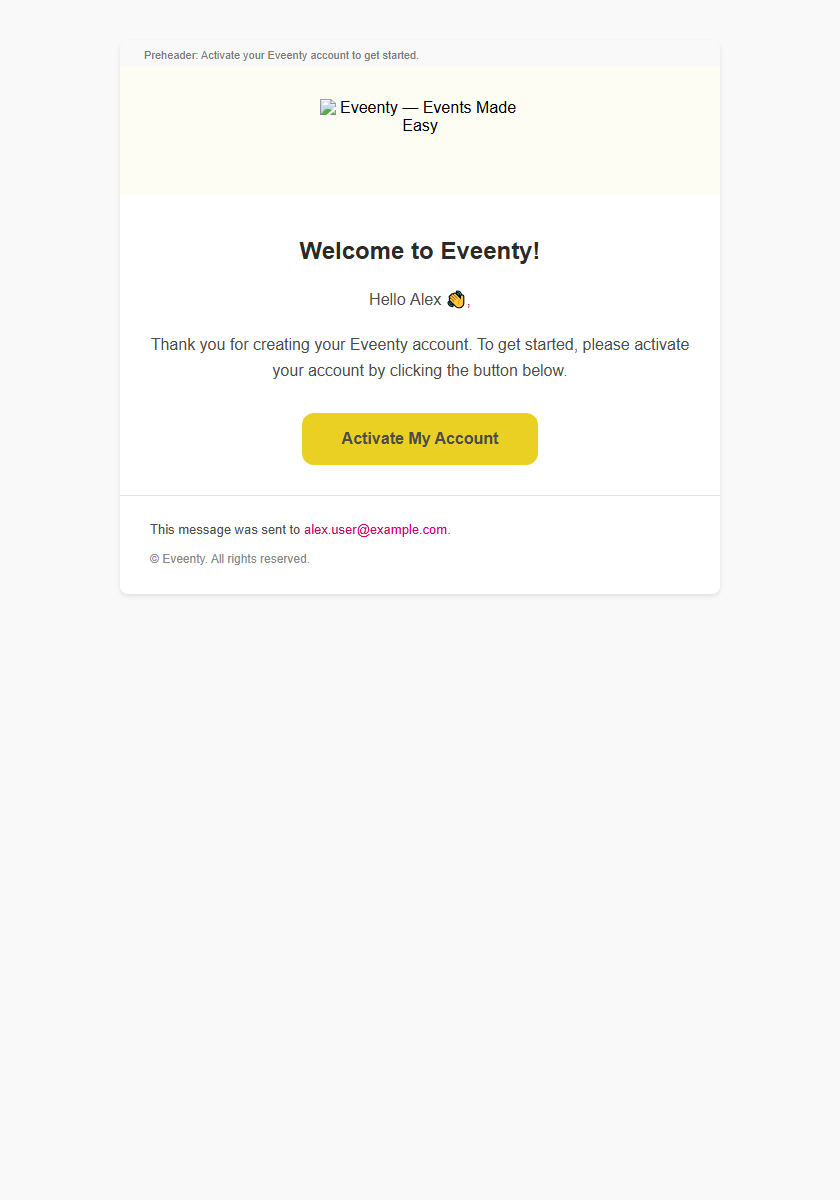
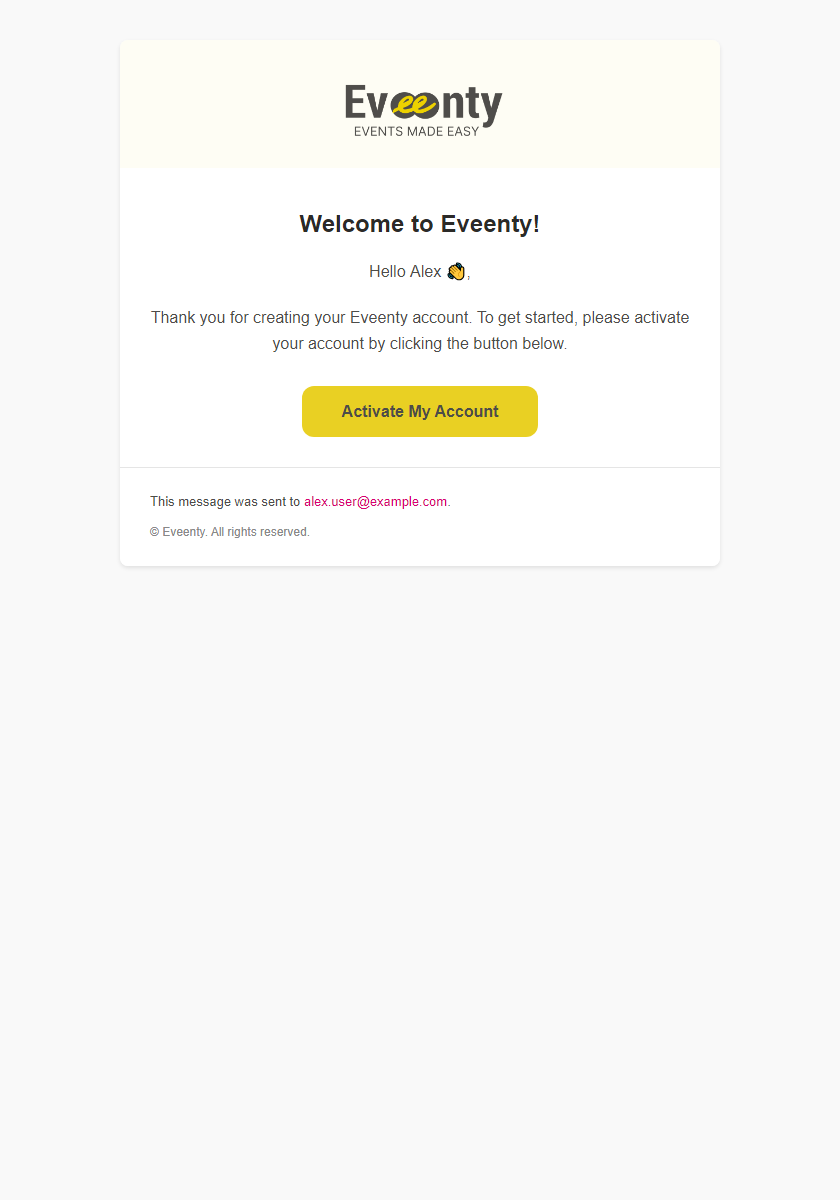
Add preview annotation for account activation email
- Introduced a hidden preview annotation in the email preview interface to display the inbox preheader for the account activation email.
- Updated CSS for the new annotation styling.
- Modified JavaScript to manage the visibility and content of the annotation based on the email definition.
- Adjusted email rendering functions to support new font families as per design specifications.
- Updated documentation to reflect changes in email rendering and visual testing notes.

This commit enhances the email preview functionality, ensuring better alignment with design intent and providing necessary context for the account activation email.

Changed region(s): [[0.1857, 0.185, 0.8048, 0.4933], [0.1857, 0.0308, 0.619, 0.1233]]

diff --git a/emails/activate_email.html b/emails/activate_email.html
@@ -24,19 +24,13 @@
     }
   </style>
 </head>
-<body style="margin:0;padding:0;background-color:#f9f9f9;font-family:Arial, Helvetica, 'Roboto', Tahoma, sans-serif;">
+<body style="margin:0;padding:0;background-color:#f9f9f9;font-family:'Roboto', Arial, Helvetica, Tahoma, sans-serif;">
   <div style="display:none;font-size:1px;line-height:1px;max-height:0;max-width:0;opacity:0;overflow:hidden;mso-hide:all;">Activate your Eveenty account to get started.</div>
   <table role="presentation" width="100%" cellpadding="0" cellspacing="0" border="0" style="background-color:#f9f9f9;margin:0;padding:0;">
     <tr>
       <td align="center" style="padding:40px 16px;">
         <table role="presentation" class="email-container" width="600" cellpadding="0" cellspacing="0" border="0" style="width:100%;max-width:600px;background-color:#ffffff;border-radius:8px;overflow:hidden;box-shadow:0 2px 4px rgba(0,0,0,0.1);">
           
-    
-    <tr>
-      <td align="left" style="background-color:#f9f9f9;padding:8px 24px 4px 24px;font-family:Arial, Helvetica, 'Roboto', Tahoma, sans-serif;font-size:11px;line-height:1.4;color:#7b7b79;">
-        Preheader: Activate your Eveenty account to get started.
-      </td>
-    </tr>
     
     <tr>
       <td align="center" style="background-color:#fefdf4;padding:32px 24px 16px 24px;">
@@ -46,9 +40,9 @@
     </tr>
     <tr>
       <td align="center" class="stack-pad" style="padding:40px 30px 30px 30px;background-color:#ffffff;">
-        <h1 style="margin:0 0 20px 0;font-family:Arial, Helvetica, 'Roboto', Tahoma, sans-serif;font-size:24px;font-weight:700;line-height:1.3;color:#2b2a28;text-align:center;">Welcome to Eveenty!</h1>
-        <p style="margin:0 0 20px 0;font-family:Arial, Helvetica, 'Roboto', Tahoma, sans-serif;font-size:16px;line-height:1.6;color:#4d4c49;text-align:center;">Hello <bdi>Alex</bdi> 👋,</p>
-        <p style="margin:0;font-family:Arial, Helvetica, 'Roboto', Tahoma, sans-serif;font-size:16px;line-height:1.6;color:#4d4c49;text-align:center;">Thank you for creating your Eveenty account. To get started, please activate your account by clicking the button below.</p>
+        <h1 style="margin:0 0 20px 0;font-family:'Plus Jakarta Sans', Arial, Helvetica, sans-serif;font-size:24px;font-weight:700;line-height:1.3;color:#2b2a28;text-align:center;">Welcome to Eveenty!</h1>
+        <p style="margin:0 0 20px 0;font-family:'Roboto', Arial, Helvetica, Tahoma, sans-serif;font-size:16px;line-height:1.6;color:#4d4c49;text-align:center;">Hello <bdi>Alex</bdi> 👋,</p>
+        <p style="margin:0;font-family:'Roboto', Arial, Helvetica, Tahoma, sans-serif;font-size:16px;line-height:1.6;color:#4d4c49;text-align:center;">Thank you for creating your Eveenty account. To get started, please activate your account by clicking the button below.</p>
       </td>
     </tr>
     <tr>
@@ -56,8 +50,8 @@
         
     <table role="presentation" cellpadding="0" cellspacing="0" border="0">
       <tr>
-        <td align="center" bgcolor="#e9d023" style="background-color:#e9d023;border-radius:12px;min-height:48px;">
-          <a href="https://example.com/preview/activate" target="_blank" style="display:inline-block;padding:16px 40px;font-family:Arial, Helvetica, 'Roboto', Tahoma, sans-serif;font-size:16px;font-weight:700;color:#4d4c49;text-decoration:none;border-radius:12px;min-width:44px;line-height:1.2;">Activate My Account</a>
+        <td align="center" bgcolor="#e9d023" style="background-color:#e9d023;border-radius:12px;">
+          <a href="https://example.com/preview/activate" target="_blank" style="display:inline-block;padding:16px 40px;font-family:'Roboto', Arial, Helvetica, Tahoma, sans-serif;font-size:16px;font-weight:700;color:#4d4c49;text-decoration:none;border-radius:12px;min-width:44px;line-height:1.2;">Activate My Account</a>
         </td>
       </tr>
     </table>
@@ -65,7 +59,7 @@
     </tr>
     
     <tr>
-      <td align="left" style="background-color:#ffffff;padding:24px 30px;border-top:1px solid #e5e5e5;font-family:Arial, Helvetica, 'Roboto', Tahoma, sans-serif;">
+      <td align="left" style="background-color:#ffffff;padding:24px 30px;border-top:1px solid #e5e5e5;font-family:'Roboto', Arial, Helvetica, Tahoma, sans-serif;">
         <p style="margin:0 0 10px 0;color:#4d4c49;font-size:13px;line-height:1.6;">
           This message was sent to <a href="mailto:alex.user@example.com" dir="ltr" style="color:#d80073;text-decoration:none;unicode-bidi:embed;">alex.user@example.com</a>.
         </p>

diff --git a/shared/email-kit.js b/shared/email-kit.js
@@ -48,11 +48,11 @@ export function brandedHeader({ locale = 'en', dir = 'ltr' } = {}) {
     </tr>`;
 }
 
-export function brandedFooter({ email, copyright, dir = 'ltr' } = {}) {
+export function brandedFooter({ email, copyright, dir = 'ltr', fontFamily = T.fontStack } = {}) {
   const align = dir === 'rtl' ? 'right' : 'left';
   return `
     <tr>
-      <td align="${align}" style="background-color:${T.surface};padding:24px 30px;border-top:1px solid #e5e5e5;font-family:${T.fontStack};">
+      <td align="${align}" style="background-color:${T.surface};padding:24px 30px;border-top:1px solid #e5e5e5;font-family:${fontFamily};">
         <p style="margin:0 0 10px 0;color:${T.dark500};font-size:13px;line-height:1.6;">
           This message was sent to <a href="mailto:${esc(email)}" dir="ltr" style="color:${T.secondary};text-decoration:none;unicode-bidi:embed;">${esc(email)}</a>.
         </p>
@@ -92,12 +92,19 @@ export function totalsBox({ subtotal, tax, processingFee, grandTotal, dir = 'ltr
     </table>`;
 }
 
-export function primaryCtaYellow({ href, label }) {
+/**
+ * Yellow primary CTA (Account Activation / TRANSACTIONAL).
+ * Target ~48–51px height via anchor padding (16+16) + 16px/1.2 line — do not
+ * rely on td min-height (Outlook often ignores it). Full VML/bulletproof Outlook
+ * button suite remains DEFERRED — no production engineering in Task 02.
+ * Client rendering tests: NOT EXECUTED.
+ */
+export function primaryCtaYellow({ href, label, fontFamily = T.fontStack }) {
   return `
     <table role="presentation" cellpadding="0" cellspacing="0" border="0">
       <tr>
-        <td align="center" bgcolor="${T.primary}" style="background-color:${T.primary};border-radius:12px;min-height:48px;">
-          <a href="${esc(href)}" target="_blank" style="display:inline-block;padding:16px 40px;font-family:${T.fontStack};font-size:16px;font-weight:700;color:${T.body};text-decoration:none;border-radius:12px;min-width:44px;line-height:1.2;">${esc(label)}</a>
+        <td align="center" bgcolor="${T.primary}" style="background-color:${T.primary};border-radius:12px;">
+          <a href="${esc(href)}" target="_blank" style="display:inline-block;padding:16px 40px;font-family:${fontFamily};font-size:16px;font-weight:700;color:${T.body};text-decoration:none;border-radius:12px;min-width:44px;line-height:1.2;">${esc(label)}</a>
         </td>
       </tr>
     </table>`;
@@ -128,7 +135,7 @@ export function kvRow(label, value, dir = 'ltr') {
     </tr>`;
 }
 
-export function wrapEmailDocument({ lang, dir, title, bodyRows, preheader }) {
+export function wrapEmailDocument({ lang, dir, title, bodyRows, preheader, fontFamily = T.fontStack }) {
   return `<!DOCTYPE html>
 <html lang="${esc(lang)}" dir="${esc(dir)}">
 <head>
@@ -155,7 +162,7 @@ export function wrapEmailDocument({ lang, dir, title, bodyRows, preheader }) {
     }
   </style>
 </head>
-<body style="margin:0;padding:0;background-color:${T.viewport};font-family:${T.fontStack};${dir === 'rtl' ? 'direction:rtl;' : ''}">
+<body style="margin:0;padding:0;background-color:${T.viewport};font-family:${fontFamily};${dir === 'rtl' ? 'direction:rtl;' : ''}">
   ${hiddenPreheader(preheader)}
   <table role="presentation" width="100%" cellpadding="0" cellspacing="0" border="0" style="background-color:${T.viewport};margin:0;padding:0;">
     <tr>

diff --git a/shared/render-emails.js b/shared/render-emails.js
@@ -50,22 +50,23 @@ function renderActivate(L, dir, lang, longContent) {
   const body = longContent
     ? `${a.body} ${'Additional onboarding guidance for preview wrapping. '.repeat(6)}`
     : a.body;
+  const bodyFont = dir === 'rtl' ? T.fontBodyRtl : T.fontBody;
+  const headingFont = dir === 'rtl' ? T.fontBodyRtl : T.fontHeading;
   const rows = `
-    ${visiblePreheaderBar(`Preheader: ${SAMPLE.activate.preheader}`, dir)}
     ${brandedHeader({ locale: L.logo, dir })}
     <tr>
       <td align="center" class="stack-pad" style="padding:40px 30px 30px 30px;background-color:${T.surface};">
-        <h1 style="margin:0 0 20px 0;font-family:${T.fontStack};font-size:24px;font-weight:700;line-height:1.3;color:${T.heading};text-align:center;">${esc(a.welcome)}</h1>
-        <p style="margin:0 0 20px 0;font-family:${T.fontStack};font-size:16px;line-height:1.6;color:${T.body};text-align:center;">${esc(a.greeting)} <bdi>${esc(name)}</bdi> 👋,</p>
-        <p style="margin:0;font-family:${T.fontStack};font-size:16px;line-height:1.6;color:${T.body};text-align:center;">${esc(body)}</p>
+        <h1 style="margin:0 0 20px 0;font-family:${headingFont};font-size:24px;font-weight:700;line-height:1.3;color:${T.heading};text-align:center;">${esc(a.welcome)}</h1>
+        <p style="margin:0 0 20px 0;font-family:${bodyFont};font-size:16px;line-height:1.6;color:${T.body};text-align:center;">${esc(a.greeting)} <bdi>${esc(name)}</bdi> 👋,</p>
+        <p style="margin:0;font-family:${bodyFont};font-size:16px;line-height:1.6;color:${T.body};text-align:center;">${esc(body)}</p>
       </td>
     </tr>
     <tr>
       <td align="center" style="padding:0 30px 30px 30px;background-color:${T.surface};">
-        ${primaryCtaYellow({ href: SAMPLE.activate.activateUrl, label: a.button })}
+        ${primaryCtaYellow({ href: SAMPLE.activate.activateUrl, label: a.button, fontFamily: bodyFont })}
       </td>
     </tr>
-    ${brandedFooter({ email: SAMPLE.user.email, copyright: a.copyright, dir })}
+    ${brandedFooter({ email: SAMPLE.user.email, copyright: a.copyright, dir, fontFamily: bodyFont })}
   `;
   return wrapEmailDocument({
     lang,
@@ -73,6 +74,7 @@ function renderActivate(L, dir, lang, longContent) {
     title: a.title,
     preheader: SAMPLE.activate.preheader,
     bodyRows: rows,
+    fontFamily: bodyFont,
   });
 }
 

diff --git a/preview.js b/preview.js
@@ -1,4 +1,4 @@
-import { EMAIL_IDS } from './shared/sample-data.js';
+import { EMAIL_IDS, SAMPLE } from './shared/sample-data.js';
 import { renderEmail } from './shared/render-emails.js';
 
 const els = {
@@ -11,6 +11,7 @@ const els = {
   frame: document.getElementById('previewFrame'),
   wrap: document.getElementById('frameWrap'),
   label: document.getElementById('viewportLabel'),
+  annotation: document.getElementById('previewAnnotation'),
   meta: document.getElementById('metaPanel'),
   sourcePanel: document.getElementById('sourcePanel'),
   sourcePre: document.getElementById('sourcePre'),
@@ -68,6 +69,19 @@ function applyBlockedImages(html) {
   });
 }
 
+function updatePreviewAnnotation(def) {
+  if (!els.annotation) return;
+  // Account Activation only — other templates unchanged until their review pass.
+  if (def.id === 'activate_email') {
+    els.annotation.hidden = false;
+    els.annotation.innerHTML =
+      `<strong>PREVIEW ANNOTATION</strong> — Hidden inbox preheader (not in email body): ${SAMPLE.activate.preheader}`;
+  } else {
+    els.annotation.hidden = true;
+    els.annotation.textContent = '';
+  }
+}
+
 function render() {
   const def = currentDef();
   const locale = els.locale.value;
@@ -83,6 +97,7 @@ function render() {
   els.frame.srcdoc = html;
   els.sourcePre.textContent = html;
   updateMeta();
+  updatePreviewAnnotation(def);
 }
 
 function setViewport() {

diff --git a/shared/tokens.js b/shared/tokens.js
@@ -24,6 +24,21 @@ export const TOKENS = {
   errorFg: '#991b1b',
   /** Email container: Figma frame is 800px design canvas; content uses Fluid Hybrid 600 */
   containerMax: 600,
+  /**
+   * Legacy shared stack (other Phase-1 templates). Arial-first intentionally unchanged
+   * outside Account Activation until those references are reviewed.
+   */
   fontStack: "Arial, Helvetica, 'Roboto', Tahoma, sans-serif",
+  /**
+   * Account Activation (Figma-approved intent):
+   * - Headings: Plus Jakarta Sans
+   * - Body / CTA: Roboto
+   * Realistic email-client fallbacks follow. Web-font loading is NOT claimed —
+   * clients without the family fall through; formal client QA NOT EXECUTED.
+   */
+  fontHeading: "'Plus Jakarta Sans', Arial, Helvetica, sans-serif",
+  fontBody: "'Roboto', Arial, Helvetica, Tahoma, sans-serif",
+  /** AR/FA Activation preview: approved local-script fallbacks (Tahoma first). */
+  fontBodyRtl: 'Tahoma, Arial, Helvetica, sans-serif',
   fontMono: "Consolas, 'Courier New', Courier, monospace",
 };

diff --git a/preview.css b/preview.css
@@ -137,6 +137,25 @@ body {
   color: var(--muted);
 }
 
+.preview-annotation {
+  width: 100%;
+  max-width: 800px;
+  box-sizing: border-box;
+  margin: 0;
+  padding: 10px 12px;
+  border: 1px dashed #7b7b79;
+  border-radius: 6px;
+  background: #1e1e1e;
+  color: #cfcfc8;
+  font-size: 12px;
+  line-height: 1.45;
+}
+
+.preview-annotation strong {
+  color: var(--accent);
+  font-weight: 700;
+}
+
 .frame-wrap {
   max-width: 100%;
   background: #f9f9f9;

diff --git a/index.html b/index.html
@@ -58,6 +58,7 @@
   <main class="stage">
     <div class="viewport-chrome">
       <span id="viewportLabel">600px</span>
+      <aside id="previewAnnotation" class="preview-annotation" hidden></aside>
       <div id="frameWrap" class="frame-wrap" style="width:600px">
         <iframe id="previewFrame" title="Email preview" sandbox="allow-same-origin"></iframe>
       </div>

diff --git a/docs/VISUAL_DEVIATION_LOG.md b/docs/VISUAL_DEVIATION_LOG.md
@@ -5,8 +5,9 @@ Status: **DRAFT** implementations for owner review. Not APPROVED. Browser-only c
 | ID | Area | Figma | HTML preview | Severity | Rationale |
 |----|------|-------|--------------|----------|-----------|
 | D01 | Canvas width | 800px frame | 600px max container in 800px viewport chrome | Intentional | Spec: Fluid Hybrid 600; frame includes side gutters |
-| D02 | Fonts | Plus Jakarta Sans / Roboto / Inter | Arial, Helvetica, Roboto, Tahoma stack | Intentional | Email-safe; no critical layout dependency on webfonts |
-| D03 | Activate CTA | Yellow `#e9d023` / dark text | Matches Figma | — | Differs from current prod magenta |
+| D02 | Fonts (Activation) | Plus Jakarta Sans headings / Roboto body | Approved family first + email fallbacks; AR/FA Tahoma-first | Intentional | Web-font compatibility not claimed; client tests NOT EXECUTED |
+| D02b | Fonts (other refs) | Same kit intent | Legacy Arial-first shared stack | Deferred | Unchanged until Commerce/Notification review |
+| D03 | Activate CTA | Yellow `#e9d023` / dark text; ~48–51px via padding | Matches; no `td` min-height dependence | — | Differs from current prod magenta; Outlook VML deferred |
 | D04 | Activate emoji | Wave in greeting | Kept | — | Matches Figma + prod |
 | D05 | Donation KV layout | Single stacked justify-between rows | Table KV rows | Low | Email-safe equivalent; avoids CSS flex |
 | D06 | Totals box | Yellow + cream grand-total band | Table recreation | Low | Approximate radius/padding; Outlook will flatten some radius |
@@ -16,11 +17,12 @@ Status: **DRAFT** implementations for owner review. Not APPROVED. Browser-only c
 | D10 | Reg approval alert greens | `#f0fdf4` / `#c5dfcf` / `#629a77` | Same tokens | — | Differs from older prod `#d4edda` / `#28a745` |
 | D11 | Support heading | No emoji | No emoji | — | Prod template still has ⛔ |
 | D12 | Support footer | Minimal ops copy | Matches Figma | — | Prod has large trailing logo |
-| D13 | Figma annotation blocks | Present under designs | Omitted from email HTML | Intentional | Not customer-facing |
+| D13 | Figma annotation blocks | Present under designs (incl. Activation preheader metadata outside canvas) | Omitted from email HTML; Activation preheader in preview chrome only | Intentional | Not customer-facing |
 | D14 | Box shadow on cards | Subtle | Included; stripped by many clients | Low | Progressive enhancement |
-| D15 | Logo asset | Figma MCP PNG export | Local PNG (+ CDN copies for AR/FA) | Low | Transparent PNG; tagline baked into asset |
+| D15 | Logo asset | Figma MCP PNG export | Local `../assets/logos/...` preview paths only | Low | Production image hosting DEFERRED — no invented URLs |
+| D18 | Visible preheader row | Removed from Activation email canvas (Task 02) | Removed from Activation HTML; hidden preheader retained | — | Inbox preview only |
 | D16 | Ticket-sale specialized modules (rooms/addons) | Not on ref frame | Not rendered | Intentional | Follow Figma reference; note gap in parity doc |
-| D17 | RTL logos | Localized wordmarks | `logo_transparent_{ar,fa}.png` from CDN | Low | EN uses Figma export PNG |
+| D17 | RTL logos | Localized wordmarks | Local `eveenty-logo-{ar,fa}.png` in preview | Low | Production hosting DEFERRED |
 
 ## Unresolved visual questions for owner
 

diff --git a/screenshots/README.md b/screenshots/README.md
@@ -1,10 +1,33 @@
 # Email preview screenshots
 
-PNG captures of the five reference emails at desktop (800) and mobile (375) widths.
+PNG captures for owner visual review. Browser / Playwright renders only — **email-client rendering tests NOT EXECUTED**.
 
-## Regenerate
+## Account Activation (Task 02 — awaiting owner approval)
 
-From `email-preview/`:
+| File | What |
+|------|------|
+| `activate_email-desktop-800.png` | HTML EN desktop ~800 |
+| `activate_email-mobile-375.png` | HTML EN mobile 375 |
+| `activate_email-mobile-320.png` | HTML EN mobile 320 |
+| `activate_email-ar-rtl-800.png` | HTML AR RTL ~800 |
+| `preview-app-activate-ar-800.png` | Preview chrome showing outside-canvas preheader annotation |
+| `figma/activate-en-desktop-800.png` | Figma EN 800 (node `4:2`) |
+| `figma/activate-en-mobile-320.png` | Figma EN 320 |
+| `figma/activate-en-mobile-375.png` | Figma EN 375 |
+| `figma/activate-ar-rtl-800.png` | Figma AR RTL 800 |
+
+Figma file: https://www.figma.com/design/yz7YggnG4H2RuUd23f9zPk/Eveenty-Email-Design-Kit?node-id=4-2
+
+## Other Phase-1 references (unchanged this task)
+
+| File | Email |
+|------|--------|
+| `festival_donation-desktop-800.png` / `festival_donation-mobile-375.png` | Festival donation |
+| `festival_ticket_sale-desktop-800.png` / `festival_ticket_sale-mobile-375.png` | Ticket sale |
+| `festival_ticket_registration_approval-desktop-800.png` / `festival_ticket_registration_approval-mobile-375.png` | Ticket registration approval |
+| `support-desktop-800.png` / `support-mobile-375.png` | Support |
+
+## Regenerate HTML captures
 
 ```bash
 npm install
@@ -12,16 +35,5 @@ npx playwright install chromium
 node capture-screenshots.mjs
 ```
 
-Requires `"type": "module"` in `package.json` (ESM imports in `capture-screenshots.mjs`).
+Requires `"type": "module"` in `package.json`.
 
-Output files:
-
-| File | Email |
-|------|--------|
-| `activate_email-desktop-800.png` / `activate_email-mobile-375.png` | Account activation |
-| `festival_donation-desktop-800.png` / `festival_donation-mobile-375.png` | Festival donation |
-| `festival_ticket_sale-desktop-800.png` / `festival_ticket_sale-mobile-375.png` | Ticket sale |
-| `festival_ticket_registration_approval-desktop-800.png` / `festival_ticket_registration_approval-mobile-375.png` | Ticket registration approval |
-| `support-desktop-800.png` / `support-mobile-375.png` | Support |
-
-Optional: copy any matching files from `%LOCALAPPDATA%\Temp\cursor\screenshots\` (names containing `activate`, `donation`, `ticket`, or `support`) into this folder if you captured them via the Cursor browser tools.

diff --git a/docs/COMPATIBILITY.md b/docs/COMPATIBILITY.md
@@ -21,10 +21,21 @@ Use **Fluid Hybrid 600**:
 
 - No flex/grid for critical structure → nested `<table role="presentation">`.
 - Critical styles inlined; `@media` only for progressive enhancement (wallet stack, container fluid).
-- Web fonts not required for layout; system/Arial/Helvetica/Tahoma fallbacks.
+- **Account Activation typography intent (Figma):** headings `Plus Jakarta Sans`; body/CTA `Roboto`. Preview stacks put the approved family first, then realistic client fallbacks (`Arial, Helvetica[, Tahoma], sans-serif`). AR/FA Activation uses `Tahoma, Arial, Helvetica, sans-serif` per Figma note. **Web-font loading / cross-client rendering is NOT claimed** — formal email-client matrix **NOT EXECUTED**.
+- Other Phase-1 templates still use the legacy Arial-first shared stack until their review pass.
 - No JavaScript inside email documents.
-- Images: explicit `width`/`height`, `alt`, and blocked-image simulation in the preview app.
+- Images: explicit `width`/`height`, `alt`, and blocked-image simulation in the preview app. Logo `../assets/logos/...` paths are **local preview assets only**; production image hosting remains **DEFERRED** (no invented CDN URLs).
 - MSO conditional comments for basic Outlook font hints only (not full VML button suite yet).
+
+## Account Activation CTA (preview note)
+
+| Spec | Value |
+|------|-------|
+| Figma CTA | ~230×51, `min-height: 48`, padding 16×40, radius 12, yellow `#e9d023` |
+| Preview approach | Height from **anchor padding + line-height**, not `td { min-height }` |
+| Touch target | `min-width: 44px`; horizontal padding keeps readable tap area on 320/375 |
+| Outlook | Do **not** rely solely on cell `min-height` — often ignored. Full VML/bulletproof buttons **DEFERRED** (Task 02: no production engineering). |
+| Client tests | **NOT EXECUTED** |
 
 ## What this preview does **not** prove
 

diff --git a/docs/SOURCE_PARITY.md b/docs/SOURCE_PARITY.md
@@ -15,7 +15,7 @@ Legend: **P** = in production template · **S** = in sender payload/model · **H
 | `UserEmail` (footer mailto) | Y | Y | Y | |
 | `ActivateBaseURL` CTA | Y | Y | Y | example.com preview URL |
 | Locales: Welcome, Greeting, Body, Button, Footer, Copyright | Y | Y | Y | EN from yaml; AR/FA preview strings |
-| Preheader | N | N | Y | **Proposed addition** — present in Figma |
+| Preheader | N | N | Y | **Hidden** inbox preheader in email HTML; visible “Preheader: …” row removed from canvas (Task 02). Designer metadata = preview annotation outside iframe / Figma annotation outside container. |
 | CTA color yellow (`#e9d023`) | N | — | Y | Prod uses magenta `#d80073`; Figma = yellow |
 | Header cream band (`#fefdf4`) | N | — | Y | Figma master TRANSACTIONAL |
 | Card radius / shadow | Partial | — | Y | |

diff --git a/README.md b/README.md
@@ -78,9 +78,9 @@ Outputs land in `emails/*.html` with `../assets/` paths.
 - Does **not** send mail
 - QR / Wallet use **SAMPLE** fixtures and example.com links — no live passes or credentials
 - Support long-content uses sanitized synthetic stack text
-- Does **not** edit the Figma file
-- Does **not** claim Gmail/Outlook/Apple Mail client parity from browser screenshots alone
-- Designs remain **DRAFT / not APPROVED**
+- Does **not** edit Commerce / Notification / Marketing / catalog frames (Activation only in Task 02)
+- Does **not** claim Gmail/Outlook/Apple Mail client parity from browser screenshots alone — **client tests NOT EXECUTED**
+- Designs remain **DRAFT / not APPROVED** — **STOP for Account Activation owner visual approval** before other families
 
 ## Docs
 
